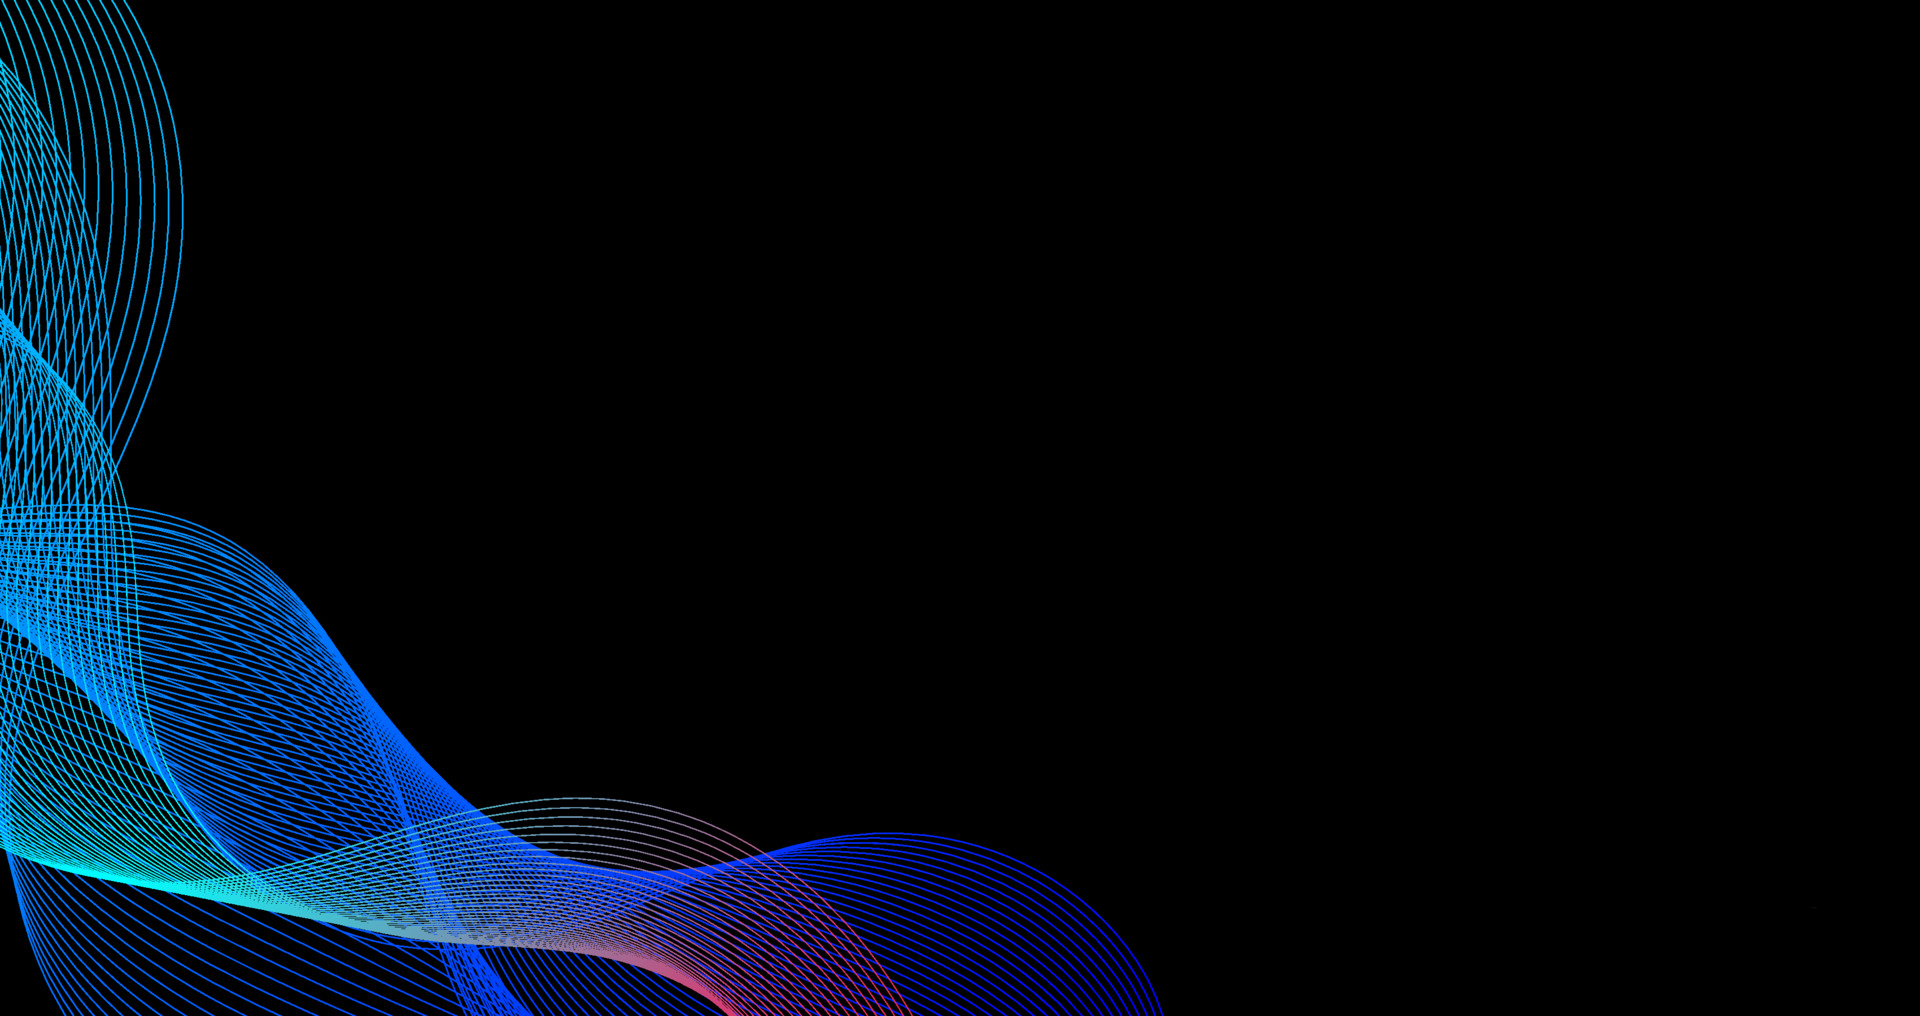
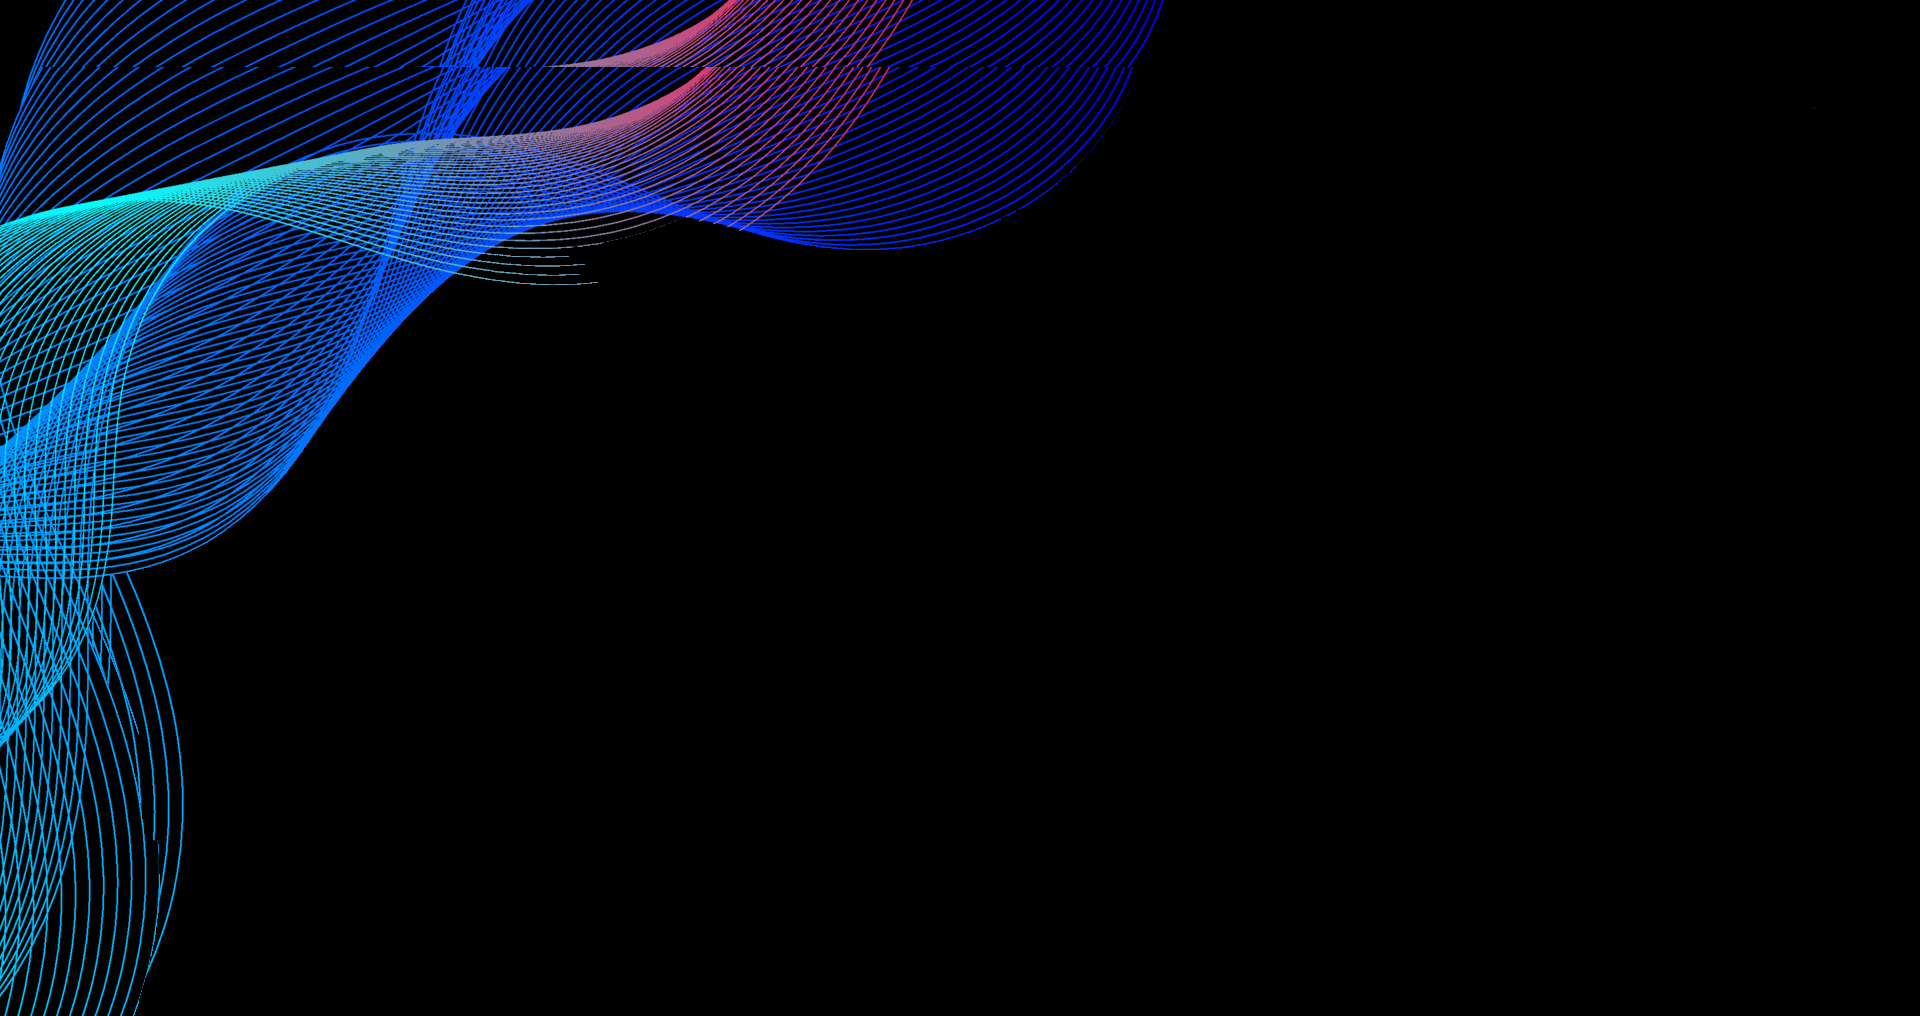
Backgrounds for all sections added

Changed region(s): [[0.0, 0.0, 0.625, 1.0]]

diff --git a/index.html b/index.html
@@ -23,28 +23,31 @@
 </head>
 
 <body data-spy="scroll" data-target="#pb-navbar" data-offset="400">
-	<section class="site-hero animate__animated" style="background-image: url(images/landing_background.png);"
+	<section class="site-hero animate__animated">
 		id="section-home" data-stellar-background-ratio="0.5">
+		<img 
+		  src="images/landing_background.png"
+		  style="
+			position: absolute;
+			top: -15%;
+			left: 2%;
+			width: 100%;
+			height: 100%;
+			object-fit: cover;
+			filter: blur(40px);
+			z-index: -1;
+		  "
+		  alt="proj-background"
+		>
 		<div class="container">
 			<div class="row intro-text align-items-center justify-content-center">
 				<div class="col-md-10 text-center pt-5">
 					<ul class="menu cf animate__animated animate__flipInX">
-						<li><a href="https://www.blogger.com/blogger.g?blogID=1719501309664700552">Home</a></li>
-						<li>
-							<a href="https://www.blogger.com/blogger.g?blogID=1719501309664700552">Projects</a>
-							<ul class="submenu">
-								<li><a href="https://www.blogger.com/blogger.g?blogID=1719501309664700552">HTML</a></li>
-								<li><a href="https://www.blogger.com/blogger.g?blogID=1719501309664700552">React</a>
-								</li>
-								<li><a href="https://www.blogger.com/blogger.g?blogID=1719501309664700552">Python</a>
-								</li>
-							</ul>
-						</li>
-						<li><a href="https://www.blogger.com/blogger.g?blogID=1719501309664700552">Resumé</a></li>
-						<li><a href="https://www.blogger.com/blogger.g?blogID=1719501309664700552">About Me</a></li>
-						<li><a href="https://www.blogger.com/blogger.g?blogID=1719501309664700552">Blog</a></li>
-						<li><a href="https://www.blogger.com/blogger.g?blogID=1719501309664700552">Contact</a></li>
-
+						<li><a href="#section-portfolio">Projects</a></li>
+						<li><a href="#section-resume">Resumé</a></li>
+						<li><a href="#section-about">About Me</a></li>
+						<li><a href="#section-blog">Blog</a></li>
+						<li><a href="#section-contact">Contact</a></li>
 					</ul>
 					<h1 class="site-heading animate__animated animate__fadeIn">Hi, I'm Adam.</h1>
 					<strong
@@ -79,7 +82,7 @@
 		  src="images/projects_background.png"
 		  style="
 			position: absolute;
-			top: 0;
+			top: 6%;
 			left: 0;
 			width: 100%;
 			height: 100%;
@@ -96,7 +99,7 @@
 			</div>
 		  </div>
 			<div class="filters">
-				<ul>
+				<ul style="margin-top: -2.5%;">
 					<li class="active" data-filter="*">All</li>
 					<li data-filter=".javascript">React</li>
 					<li data-filter=".python">Python</li>
@@ -109,14 +112,14 @@
 				<div class="row grid">
 					<div class="single-portfolio col-sm-4 all javascript" style="z-index: 9999;">
 						<div class="relative" style="z-index: 9999;">
-							<div class="thumb">
-								<div class="overlay overlay-bg"></div>
+							<div class="thumb";>
+								<div class="overlay overlay-bg" ></div>
 								<img class="image img-fluid"
-									style="min-width: 120%; margin-top: 25%; margin-left: -55%; border-radius: 25px;"
+									style="min-width: 120%; margin-top: 5%; margin-left: -55%; border-radius: 25px; border-radius: 25px; box-shadow: 4px 5px 15px rgba(255, 255, 255, 0.531);"
 									src="images/spottr.gif" alt="">
 							</div>
 						</div>
-						<div class="p-inner" style="margin-left: -330px; margin-top: 5%; min-width: 100%;">
+						<div class="p-inner" style="margin-left: -330px; margin-top: -5%; min-width: 100%;">
 							<h4>Spott'r</h4>
 							<a href="https://spottr.netlify.app/"
 								style="font-size: 0.9em; color: #bac964; display: block; margin-top: 5px;">*Click
@@ -132,7 +135,7 @@
 							<div class="thumb">
 								<div class="overlay overlay-bg"></div>
 								<img class="image img-fluid"
-									style="min-width: 125%; height: 230px; margin-top: 25%; margin-left: -10%; border-radius: 25px;"
+									style="min-width: 125%; height: 230px; margin-top: 5%; margin-left: -10%; border-radius: 25px; box-shadow: 4px 5px 15px rgba(255, 255, 255, 0.531);"
 									src="images/teamsync.gif" alt="">
 							</div>
 							<a href="images/p1.jpg" class="img-pop-up">
@@ -142,7 +145,7 @@
 								</div>
 							</a>
 						</div>
-						<div class="p-inner" style="margin-left: 10px; margin-top: 10%; min-width: 100%;">
+						<div class="p-inner" style="margin-left: 10px; margin-top: 0%; min-width: 100%;">
 							<h4>TeamSync</h4>
 							<div class="desc">Sports Team Management Portal</div>
 							<div class="cat">front end - React (CRA), CSS</div>
@@ -155,11 +158,11 @@
 							<div class="thumb">
 								<div class="overlay overlay-bg"></div>
 								<img class="image img-fluid"
-									style="min-width: 135%; margin-top: 24%; margin-left: 36%; border-radius: 25px;"
+									style="min-width: 135%; margin-top: 4%; margin-left: 36%; border-radius: 25px; border-radius: 25px; box-shadow: 4px 5px 15px rgba(255, 255, 255, 0.531);"
 									src="images/p2.png" alt="">
 							</div>
 						</div>
-						<div class="p-inner" style="margin-left: 52%; margin-top: 10%; min-width: 100%;">
+						<div class="p-inner" style="margin-left: 52%; margin-top: 0%; min-width: 100%;">
 							<h4>UFC Database App</h4>
 							<a href="https://main--ufc-database.netlify.app/"
 								style="font-size: 0.9em; color: #bac964; display: block; margin-top: 5px;">*Click
@@ -175,7 +178,7 @@
 							<div class="thumb">
 								<div class="overlay overlay-bg"></div>
 								<img class="image img-fluid"
-									style="max-width: 100%; margin-top: 50px; margin-left: 0%; border-radius: 25px;"
+									style="max-width: 100%; margin-top: 0px; margin-left: 0%; border-radius: 25px; border-radius: 25px; box-shadow: 4px 5px 15px rgba(255, 255, 255, 0.531);"
 									src="images/starblitz.gif" alt="">
 							</div>
 							<a href="images/starblitz.gif" class="img-pop-up"
@@ -186,7 +189,7 @@
 								</div>
 							</a>
 						</div>
-						<div class="p-inner" style="margin-top: 10%; margin-left: 0%; min-width: 100%;">
+						<div class="p-inner" style="margin-top: -2%; margin-left: 0%; min-width: 100%;">
 							<h4>STARBLITZ</h4>
 							<div class="desc">Space Shooter Game</div>
 							<div class="cat">Python</div>
@@ -250,16 +253,30 @@
 	</section>
 	<!-- .section -->
 
-	<section class="site-section " id="section-resume">
+	<section class="site-section " id="section-resume" style="position: relative; min-height: 400px;">
+		<img 
+		  src="images/resume_background.png"
+		  style="
+			position: absolute;
+			top: 0;
+			left: 0%;
+			width: 100%;
+			height: 100%;
+			object-fit: cover;
+			filter: blur(30px);
+			z-index: -1;
+		  "
+		  alt="proj-background"
+		>
 		<div class="container" style="margin-top: 80px;">
 			<div class="row" style="margin-top: -105px;">
 				<div class="col-md-12 mb-5">
 					<div class="section-heading text-center">
-						<h2 style="margin-top: 20px;">My <strong>Resumé</strong></h2>
+						<h2 style="margin-top: -40px;">My <strong>Resumé</strong></h2>
 					</div>
 				</div>
 				<div class="col-md-6">
-					<h2 class="mb-5" style="margin-left: 40%;">Education</h2>
+					<h2 class="mb-5" style="margin-left: 40%; margin-top: -40px;">Education</h2>
 					<div class="resume-item mb-4">
 						<span class="date"><span class="icon-calendar"></span> Jan, 2024 - Apr, 2024</span>
 						<h3 style="font-size: 17px;">Software Engineering Graduate</h3>
@@ -294,7 +311,7 @@
 				</div>
 
 				<div class="col-md-6">
-					<h2 class="mb-5" style="margin-left: 40%;">Experience</h2>
+					<h2 class="mb-5" style="margin-left: 40%; margin-top: -40px;">Experience</h2>
 					<div class="resume-item mb-4">
 						<span class="date"><span class="icon-calendar"></span> Jan, 2022 - Jul, 2023</span>
 						<h3 style="font-size: 17px;">Assistant Vice President - MRSI</h3>
@@ -347,20 +364,34 @@
 		</div>
 	</section> <!-- .section -->
 
-	<section class="site-section" id="section-about">
+	<section class="site-section" id="section-about" style="position: relative; min-height: 400px;">
+		<img 
+		  src="images/about_background.png"
+		  style="
+			position: absolute;
+			top: 0;
+			left: 0%;
+			width: 100%;
+			height: 100%;
+			object-fit: cover;
+			filter: blur(30px);
+			z-index: -1;
+		  "
+		  alt="proj-background"
+		>
 		<div class="container">
 			<div class="row mb-5 align-items-center">
 				<div class="col-lg-7 pr-lg-5 mb-5 mb-lg-0">
 					<img src="images/about.jpg"
-						style="max-width: 85%; border-radius: 100px; margin-left: 12%; margin-bottom: -20%;"
+						style="max-width: 85%; border-radius: 100px; margin-left: 10%; margin-top: 10%;"
 						alt="Image placeholder" class="img-fluid">
 				</div>
 
 				<div class="col-lg-5 pl-lg-5">
 					<div class="section-heading">
-						<h2 style="font-size: 35px; margin-bottom:75%; margin-top: -5%; margin-left: -45%;">About
+						<h2 style="font-size: 35px; margin-bottom:75%; margin-top: -15%; margin-left: -45%;">About
 							<strong>Me</strong></h2>
-						<h1 style="margin-bottom: -4%; margin-top: -40%; margin-left: 25%; font-size: 27px;">
+						<h1 style="margin-bottom: -4%; margin-top: -60%; margin-left: 25%; font-size: 27px;">
 							<strong>Adam Mannino</strong></h1>
 					</div>
 					<p class="mb-5  " style="margin-left: 15%;">
@@ -508,7 +539,21 @@
 		</div>
 	</section> -->
 
-	<section class="site-section" id="section-blog">
+	<section class="site-section" id="section-blog" style="position: relative; min-height: 400px;">
+		<img 
+		  src="images/blog_background.png"
+		  style="
+			position: absolute;
+			top: 5%;
+			left: -5%;
+			width: 100%;
+			height: 100%;
+			object-fit: cover;
+			filter: blur(30px);
+			z-index: -1;
+		  "
+		  alt="proj-background"
+		>
 		<div class="container">
 			<div class="row">
 				<div class="col-md-12 mb-5">
@@ -587,7 +632,21 @@
 		</div>
 	</section>
 
-	<section class="site-section" id="section-contact">
+	<section class="site-section" id="section-contact" style="position: relative; min-height: 400px;">
+		<img 
+		src="images/blog_background.png"
+		style="
+		  position: absolute;
+		  top: 35%;
+		  left: -5%;
+		  width: 100%;
+		  height: 100%;
+		  object-fit: cover;
+		  filter: blur(30px);
+		  z-index: -1;
+		"
+		alt="proj-background"
+	  >
 		<div class="container">
 			<div class="row">
 				<div class="col-md-12 mb-5">

diff --git a/css/style.css b/css/style.css
@@ -1,10 +1,15 @@
 body {
   color: rgb(255, 255, 255);
-  background-color: #010013;
+  background-color: #000000;
   line-height: 1.7;
   font-size: 16px;
   font-weight: 300;
 }
+
+html {
+  scroll-behavior: smooth;
+}
+
 
 .p1-gradient-bg,
 .thumb .overlay-bg {
@@ -110,10 +115,11 @@ a:active {
 }
 
 .cf {
+  position: absolute; /* Or absolute, depending on scrolling behavior */
+  top: 50%; /* 50% from the top of the viewport */
+  left: 28%; /* 50% from the left of the viewport */
+  transform: translate(-50%, -50%); /* True centering by adjusting for the element's dimensions */
   zoom: 1;
-  position: absolute;
-  top: 52vh;
-  right:9vw;
   animation-delay: 1s;
 }
 
@@ -133,7 +139,7 @@ a:active {
 }
 
 .menu > li {
- background: #004367;
+ background: #082e63;
  float: left;
  position: relative;
  transform: skewX(25deg);
@@ -150,7 +156,7 @@ a:active {
 }  
 
 .menu li:hover {
- background: #3c94e7;
+  background-color: #18174f90;
 }  
 
 .menu > li > a {
@@ -289,7 +295,7 @@ a:active {
   color: rgba(0, 200, 255, 0.668) !important;
   position: relative;
   top: -11.5vh;
-  left: 0vw;
+  left: 1vw;
   animation-delay: 1.2s;
   font-family: Landing;
 }
@@ -472,6 +478,8 @@ padding: 5em 0;
   font-weight: 200;
   padding-top: 20px;
   font-size: 30px;
+  margin-top: -5%;
+  font-family: Landing;
 }
 
 .section-heading h2 strong {
